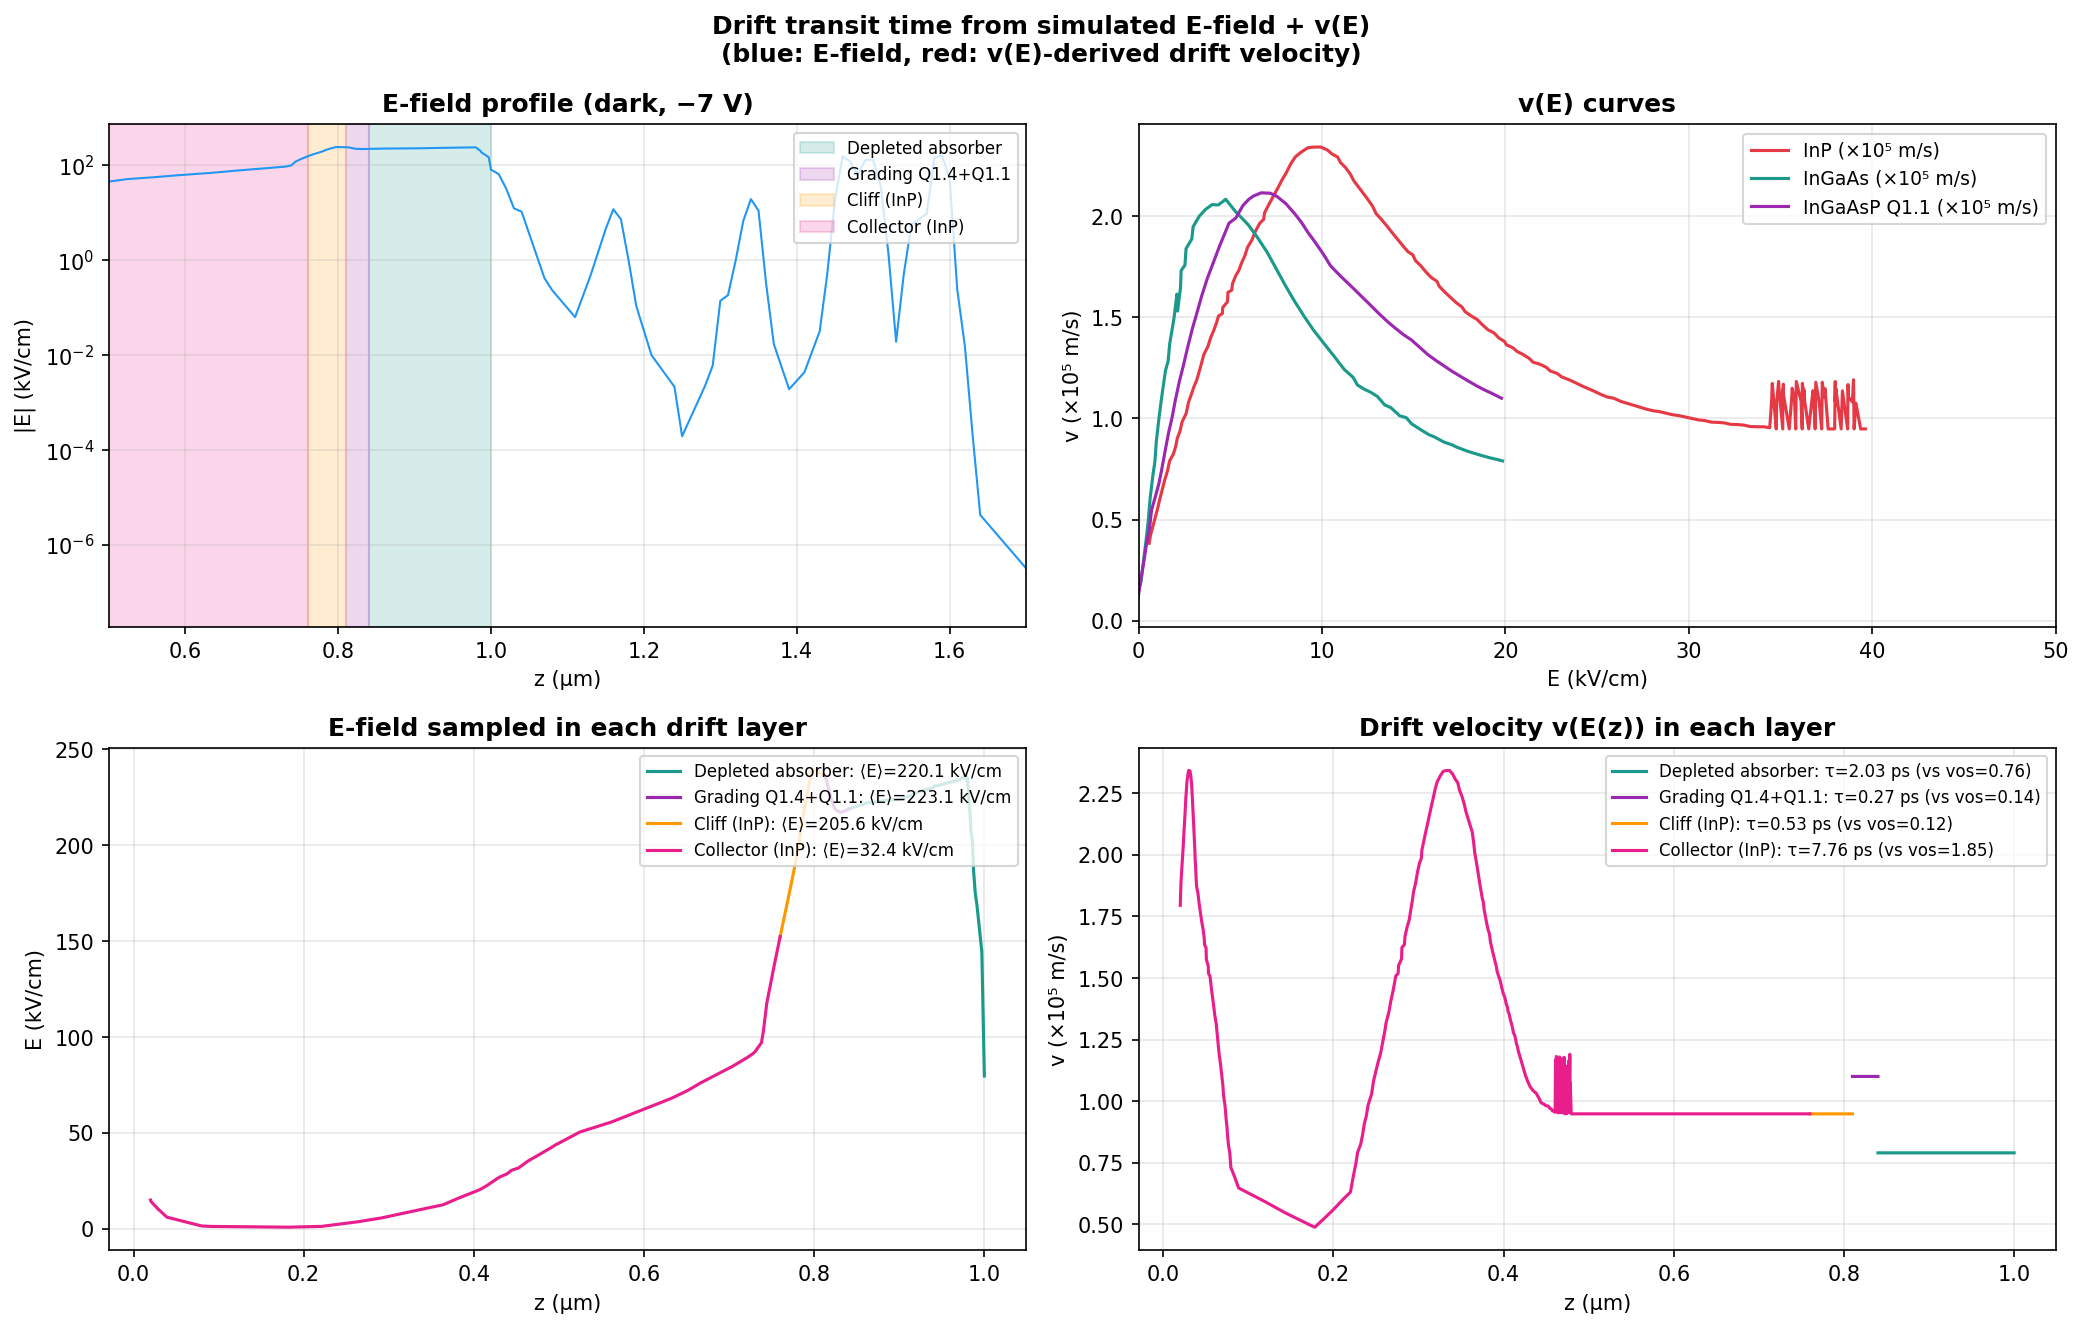
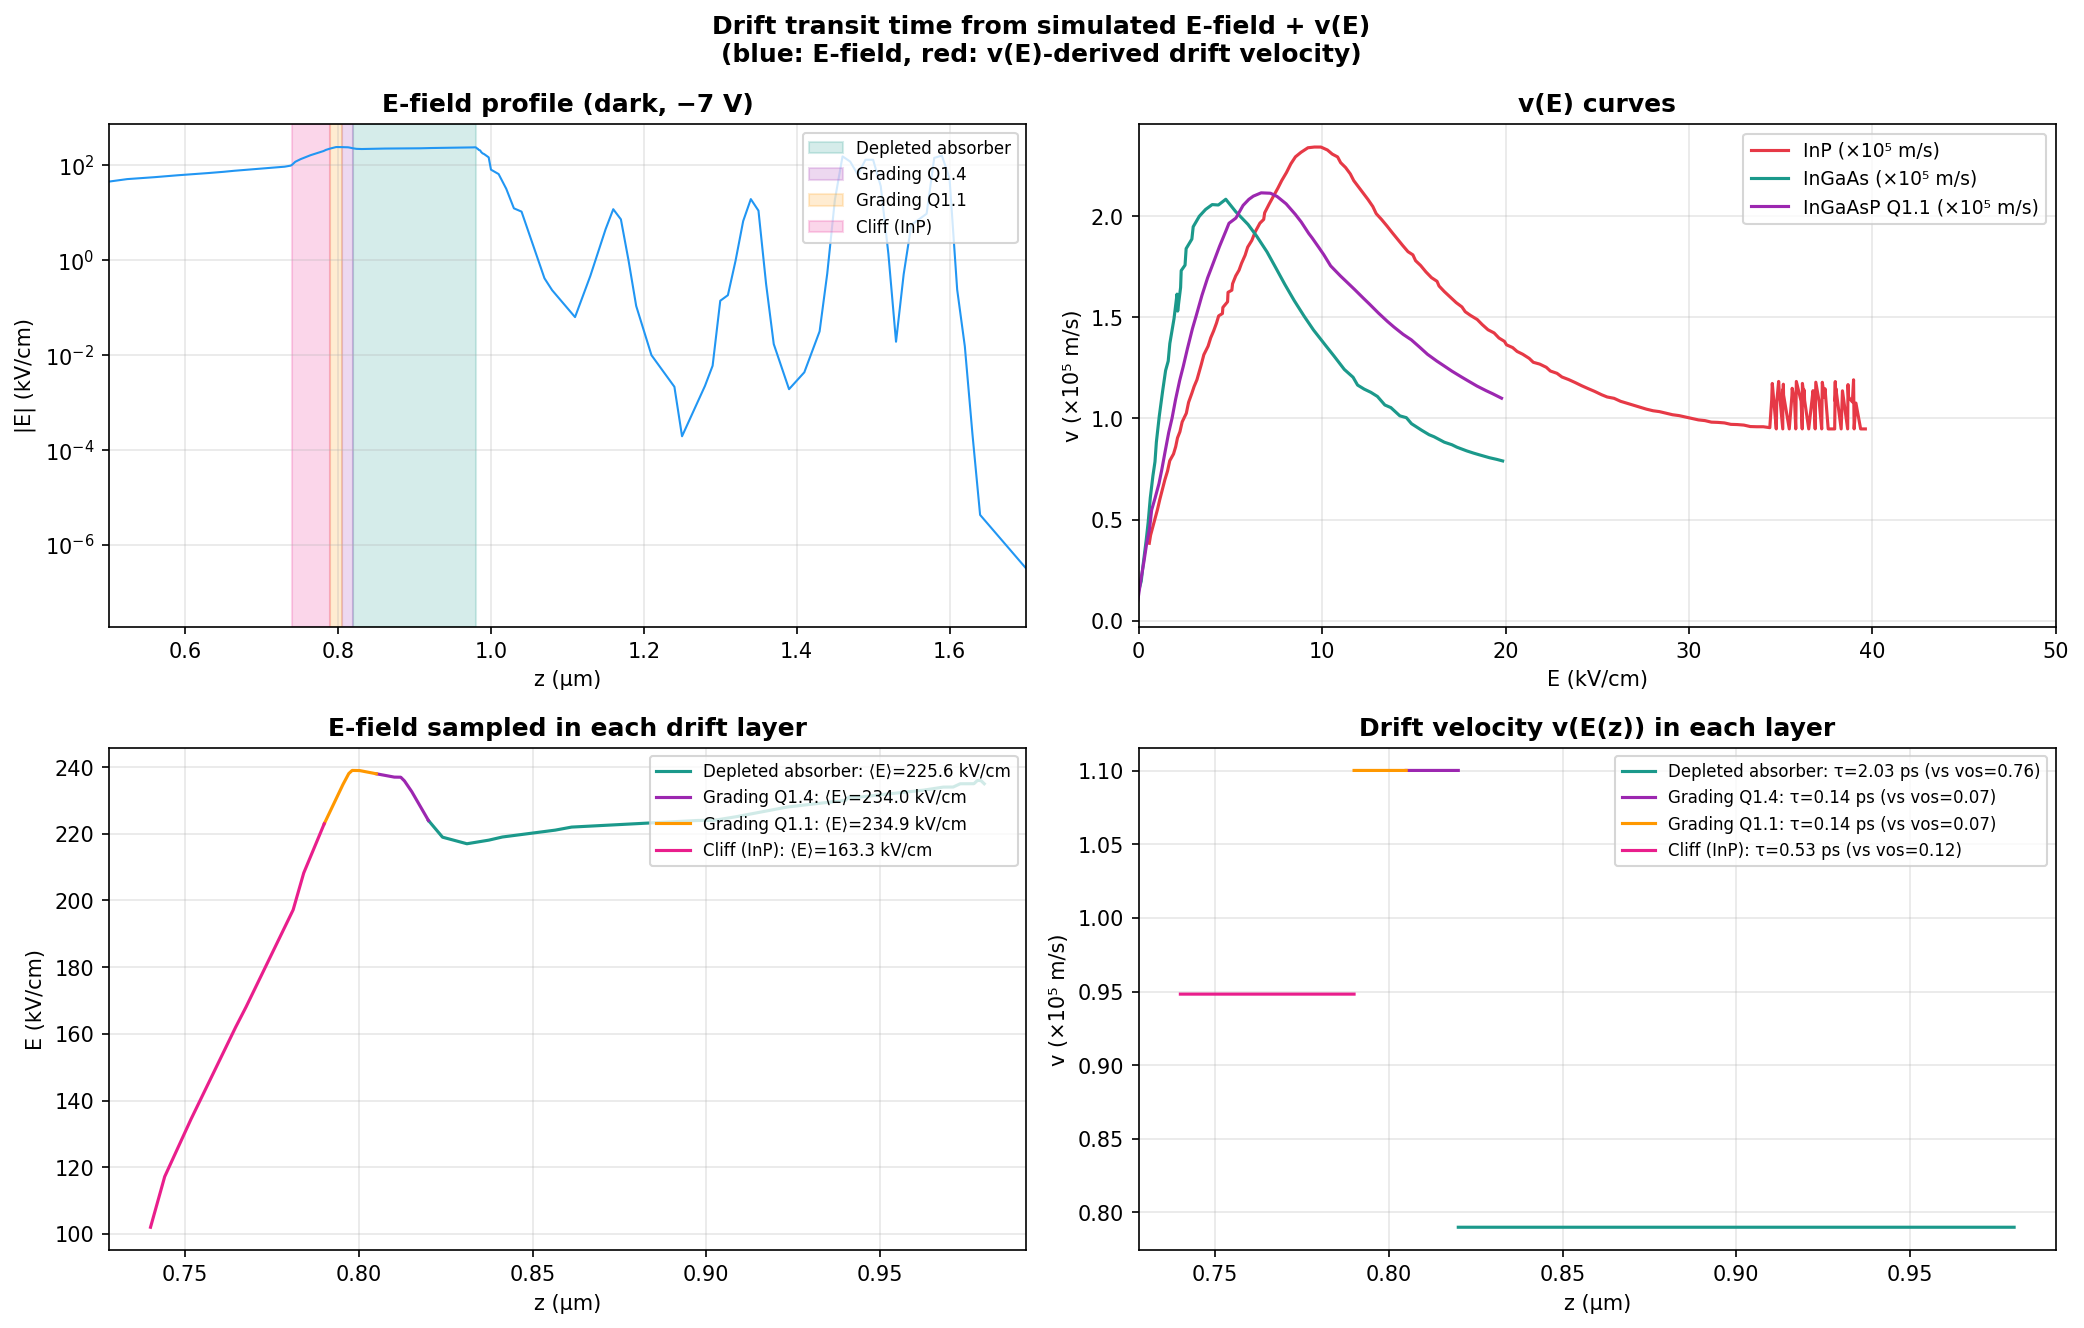
Use exact device dimensions from Dimension.xlsx for v(E) integration
Replace approximate layer boundaries with the exact ones from
the device structure spreadsheet:
- Collector (InP): z = 0.000 to 0.740 um  (Drift 440+300 nm)
- Cliff (InP):     z = 0.740 to 0.790 um  (50 nm)
- Grading Q1.1:    z = 0.790 to 0.805 um  (15 nm)
- Grading Q1.4:    z = 0.805 to 0.820 um  (15 nm)
- Dep. absorber:   z = 0.820 to 0.980 um  (160 nm InGaAs)

Result: total drift transit ~10.6 ps (vs 2.88 ps for constant v_os).
Per-layer ratios: Dep abs 2.66x, Cliff 4.22x, Collector 4.18x,
gradings 1.91x. The cliff is well into velocity saturation
(E~200-240 kV/cm); the collector contains low-E regions near the
n+ side that further slow the v(E)-averaged transit.

https://claude.ai/code/session_01Ai2cJaAR1a4hKpeYKcLV7K

diff --git a/tau_vE_compute.py b/tau_vE_compute.py
@@ -53,20 +53,20 @@ vf_InGaAs = interp1d(E_InGaAs, v_InGaAs * 1e4, bounds_error=False,
 vf_Q11    = interp1d(E_Q11,    v_Q11    * 1e4, bounds_error=False,
                      fill_value=(v_Q11[0]    * 1e4, v_Q11[-1]    * 1e4))
 
-# ── Layer boundaries (μm) ───────────────────────────────────────────
-# z direction: n+ (substrate side, z=0) → p+ (top contact, z=+1.7)
-# Cliff peak at z ≈ 0.80 μm in data; cliff is 50 nm wide between
-# grading (toward absorber, larger z) and collector (toward n+, smaller z).
-#   Undep absorber : z = 1.00 to 1.48 μm  (480 nm)  — diffusion, not used here
-#   Depleted absorber : z = 0.84 to 1.00   (160 nm)  InGaAs
-#   Grading        : z = 0.81 to 0.84      ( 30 nm)  Q1.1/Q1.4
-#   Cliff          : z = 0.76 to 0.81      ( 50 nm)  InP (peak E)
-#   Collector      : z = 0.02 to 0.76      (740 nm)  InP (decreasing E)
+# ── Layer boundaries (μm) — from Dimension.xlsx ─────────────────────
+# z direction: n++ at bottom (z = -1 μm) → p+ at top (z = +1.74 μm)
+#   Collector      : z = 0.000 to 0.740   (740 nm)  InP  (Drift 440+300 nm)
+#   Cliff          : z = 0.740 to 0.790   ( 50 nm)  InP
+#   Grading Q1.1   : z = 0.790 to 0.805   ( 15 nm)  InGaAsP Q1.1
+#   Grading Q1.4   : z = 0.805 to 0.820   ( 15 nm)  InGaAsP Q1.4
+#   Dep. absorber  : z = 0.820 to 0.980   (160 nm)  InGaAs
+#   Undep absorber : z = 0.980 to 1.460   (480 nm)  InGaAs — diffusion only
 LAYERS = [
-    ('Depleted absorber',  0.84e-6, 1.00e-6, vf_InGaAs, 'InGaAs', 2.1e5),
-    ('Grading Q1.4+Q1.1',  0.81e-6, 0.84e-6, vf_Q11,    'Q1.1',   2.1e5),
-    ('Cliff (InP)',        0.76e-6, 0.81e-6, vf_InP,    'InP',    4.0e5),
-    ('Collector (InP)',    0.02e-6, 0.76e-6, vf_InP,    'InP',    4.0e5),
+    ('Depleted absorber',  0.820e-6, 0.980e-6, vf_InGaAs, 'InGaAs', 2.1e5),
+    ('Grading Q1.4',       0.805e-6, 0.820e-6, vf_Q11,    'Q1.4',   2.1e5),  # use Q11 curve (identical data)
+    ('Grading Q1.1',       0.790e-6, 0.805e-6, vf_Q11,    'Q1.1',   2.1e5),
+    ('Cliff (InP)',        0.740e-6, 0.790e-6, vf_InP,    'InP',    4.0e5),
+    ('Collector (InP)',    0.000e-6, 0.740e-6, vf_InP,    'InP',    4.0e5),
 ]
 
 def integrate_tau(z0, z1, vfunc, N=10000):
